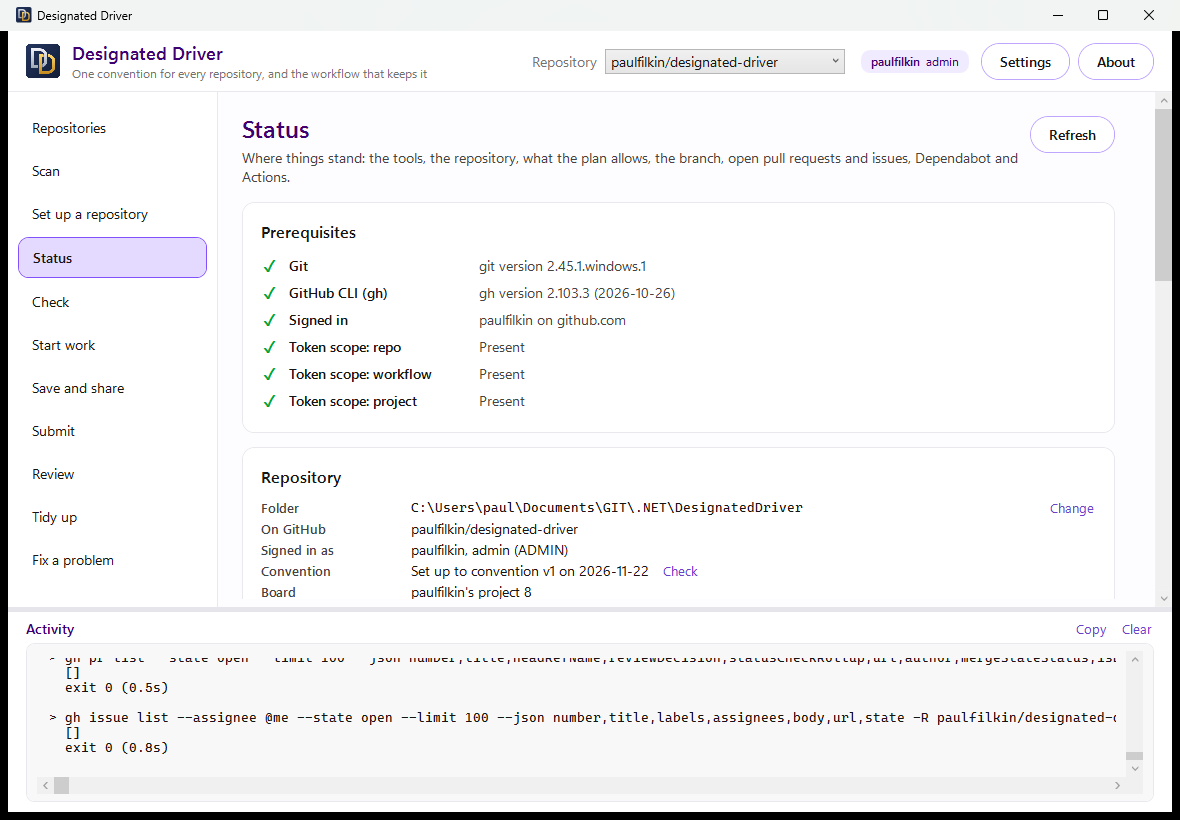
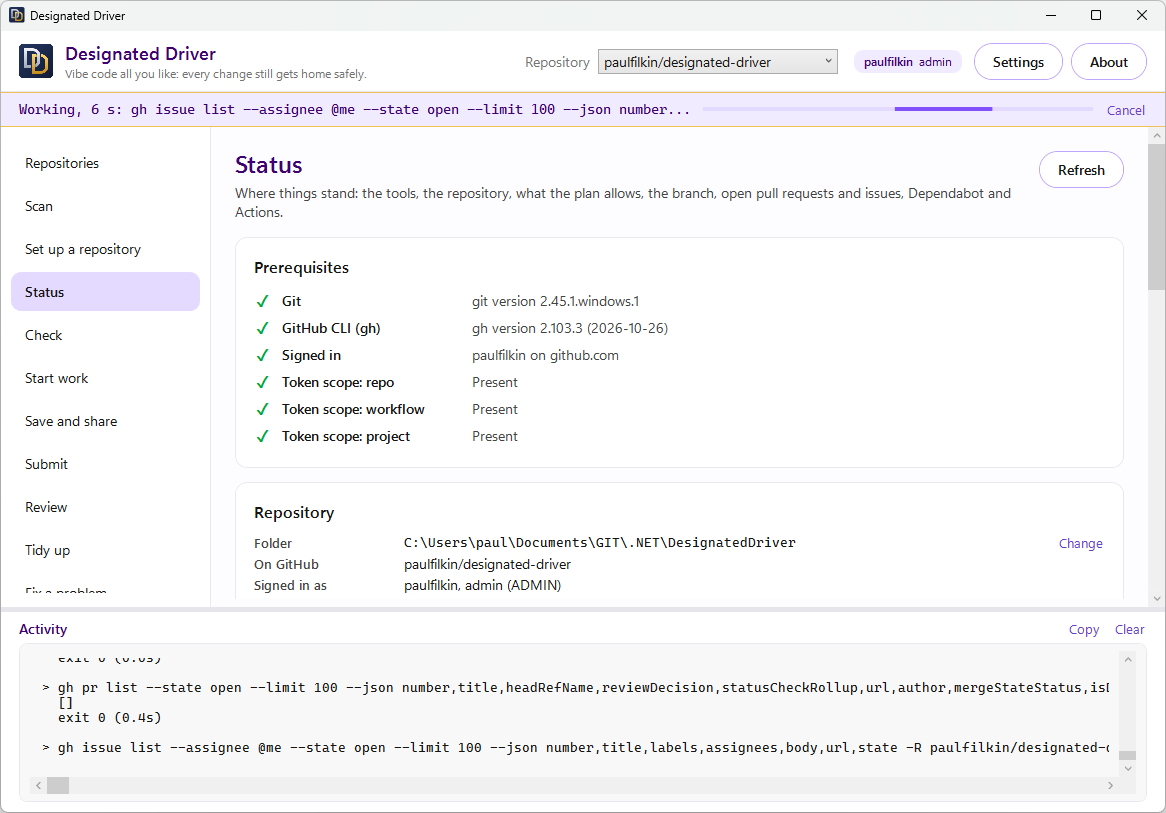
Change the strapline to say what the designated driver does (#84)

Changed region(s): [[0.0, 0.0, 1.0, 1.0], [0.4014, 0.3075, 0.5866, 0.5535], [0.8954, 0.615, 0.9571, 0.6765]]

diff --git a/DesignatedDriver/MainWindow.xaml b/DesignatedDriver/MainWindow.xaml
@@ -31,9 +31,10 @@
                 </Grid.ColumnDefinitions>
                 <Image Grid.Column="0" Source="icon.png" Width="34" Height="34" Margin="0,0,12,0" VerticalAlignment="Center"
                        AutomationProperties.Name="{x:Static res:Strings.App_Name}"/>
-                <StackPanel Grid.Column="1" VerticalAlignment="Center">
+                <StackPanel Grid.Column="1" VerticalAlignment="Center" Margin="0,0,16,0">
                     <TextBlock Text="{x:Static res:Strings.App_Name}" FontSize="18" FontWeight="SemiBold" Foreground="{StaticResource TertiaryBrush}"/>
-                    <TextBlock Text="{x:Static res:Strings.App_Tagline}" FontSize="12" Foreground="{StaticResource TextTertiaryBrush}"/>
+                    <!-- Wraps rather than being cut off when the window is narrow (issue 82). -->
+                    <TextBlock x:Name="TaglineText" Text="{x:Static res:Strings.App_Tagline}" FontSize="12" Foreground="{StaticResource TextTertiaryBrush}" TextWrapping="Wrap"/>
                 </StackPanel>
 
                 <!-- Repository switcher -->

diff --git a/DesignatedDriver/Resources/Strings.Designer.cs b/DesignatedDriver/Resources/Strings.Designer.cs
@@ -79,7 +79,7 @@ public static class Strings
     /// <summary>Designated Driver</summary>
     public static string App_Name => Get("App_Name");
 
-    /// <summary>One convention for every repository, and the workflow that keeps it</summary>
+    /// <summary>Vibe code all you like: every change still gets home safely.</summary>
     public static string App_Tagline => Get("App_Tagline");
 
     /// <summary>No board is known for this repository.</summary>

diff --git a/README.md b/README.md
@@ -58,7 +58,7 @@ A manifest in `.github` records what was set up, so Check knows what to compare,
 ## The screens
 
 <p align="center">
-  <img src="Docs/images/status-screen.png" alt="Designated Driver's Status screen: the prerequisites, all ticked, and the repository's folder, convention and board, with the activity panel showing the commands it ran">
+  <img src="Docs/images/status-screen.png" alt="Designated Driver's Status screen as it loads: the busy strip naming the command running, with a Cancel link; the prerequisites, all ticked; the repository's folder, name and your role; and the activity panel showing the commands it ran">
 </p>
 
 | Screen | What it does |
